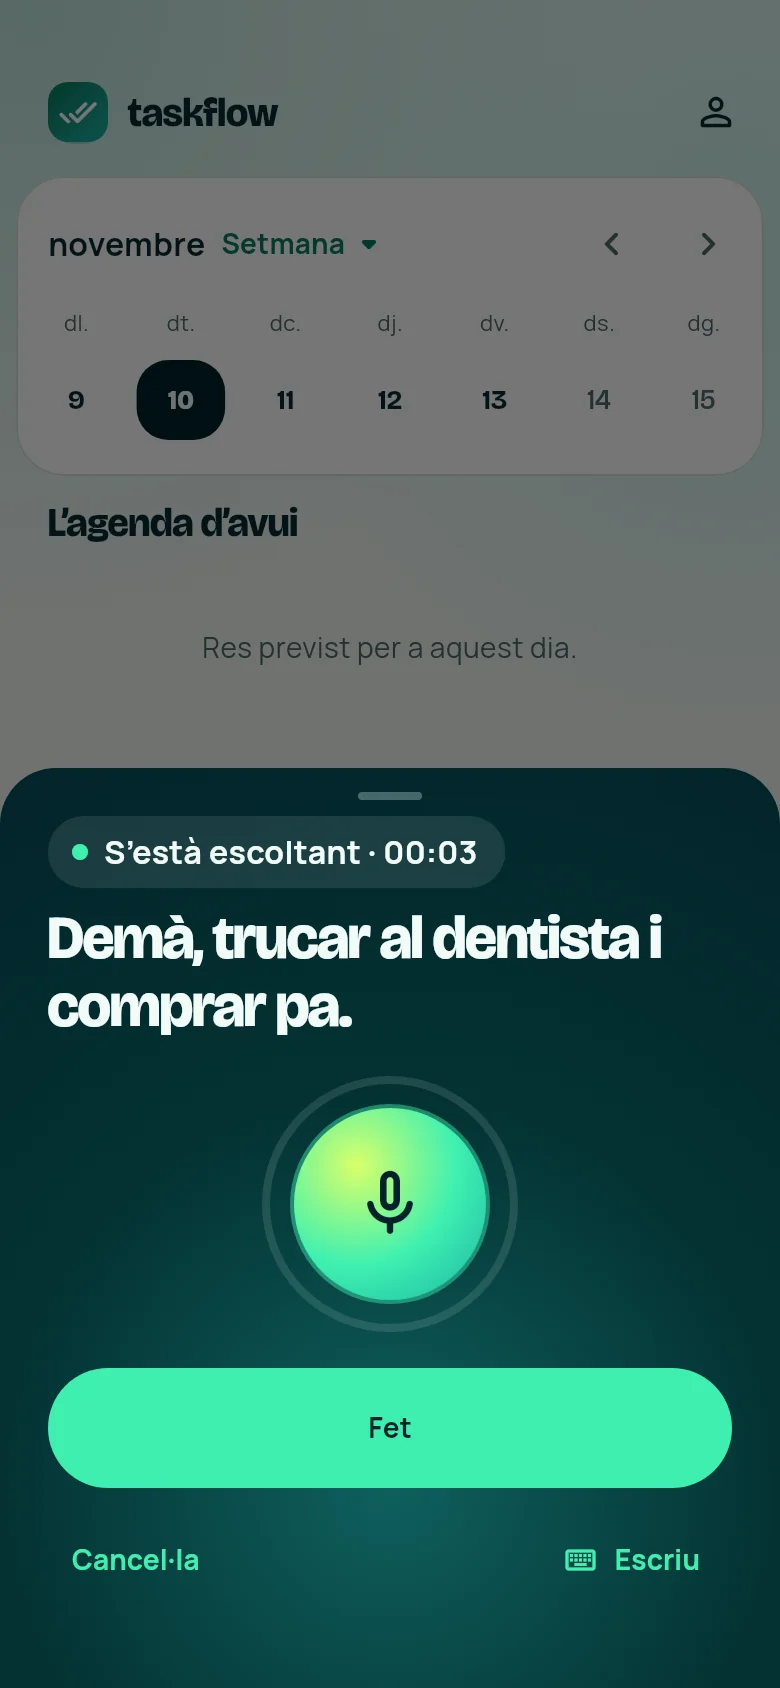
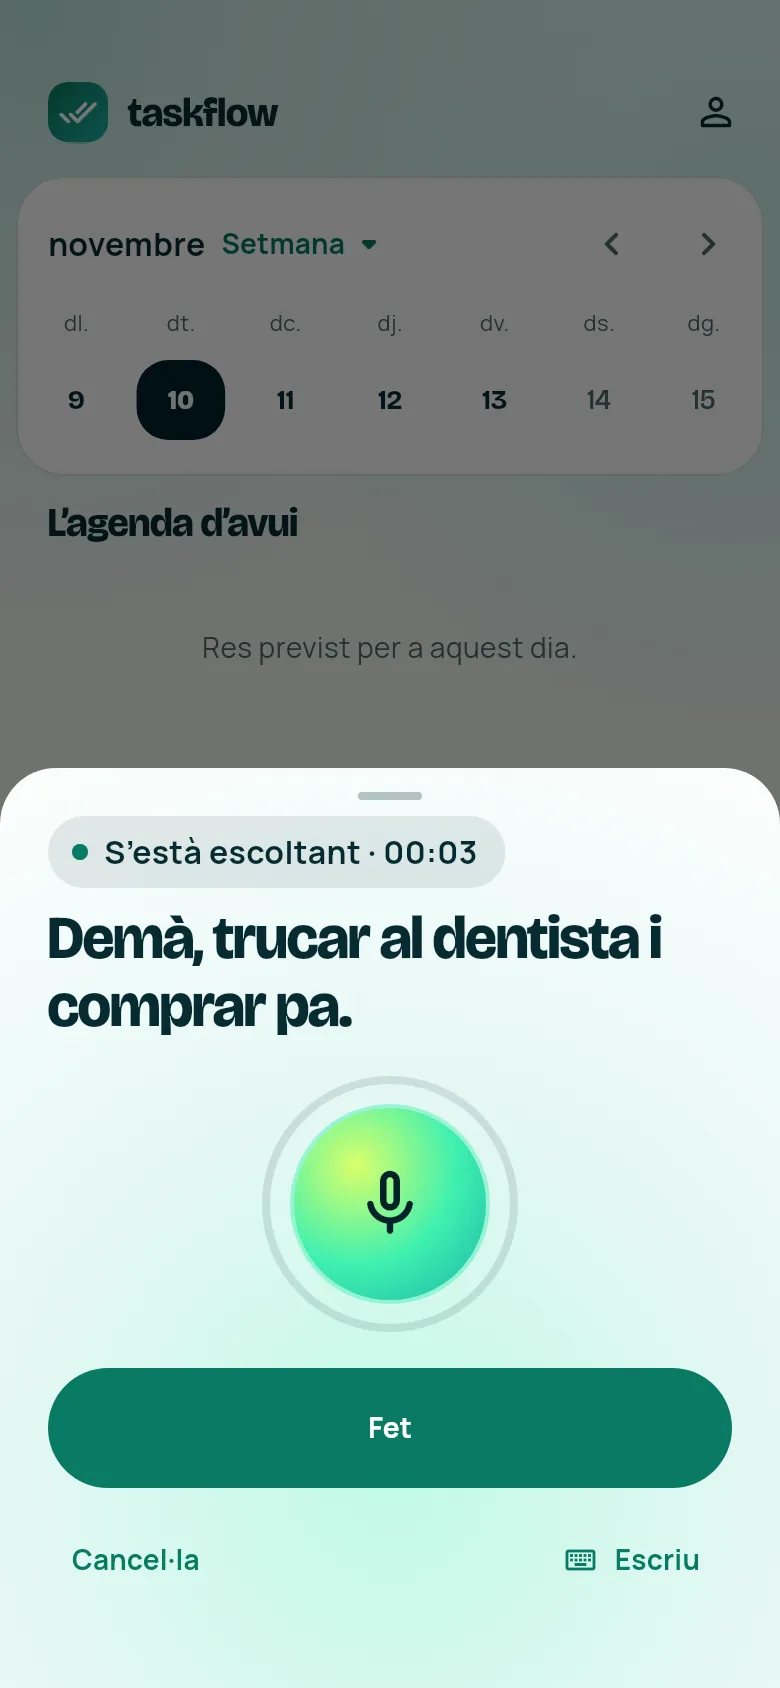
Start dark, keep What it does in the greens, and add a mouse glow (#48)
- The site opens dark unless the visitor chooses light (WD39); the
  choice is remembered, and the system setting no longer switches it.
- What it does: the cyan and lime cards become a deep green gradient
  and mint, and the site's lime and coral highlights move to mint.
- A soft green glow follows the mouse (fine pointer only, not with
  reduced motion, hidden in forced colours).
- How it works: the light listening screens from the app's new
  theme-aware listening sheet (TaskFlow #61).
- Tests: one shared fixture stores a light choice for light-scheme
  tests; the system-appearance test now checks the dark start.

Claude-Session: https://claude.ai/code/session_013H8x9K6wRvFoUgdGfRbaDV

diff --git a/src/styles/family.css b/src/styles/family.css
@@ -19,6 +19,10 @@
     --h2-track: -0.045em;
     --accent-style: normal;
     --accent-weight: 750;
+    /* The lime and the coral read as another brand beside the greens: both move into the
+       palette's mint, so every highlight stays in the GarBar-family green. */
+    --sun: #a9f5c8;
+    --pink: var(--tint);
   }
   .nv-accent {
     letter-spacing: inherit;
@@ -227,6 +231,59 @@
   }
   .nv-tape .nv-marquee-track {
     animation-duration: 44s;
+  }
+
+  /* ---------- What it does: the chapters in the site's greens ---------- */
+  .nv-c-voice {
+    background: linear-gradient(140deg, var(--accent), color-mix(in srgb, var(--accent) 55%, var(--accent-2)));
+    color: #ffffff;
+  }
+  .nv-c-voice .nv-num {
+    color: #ffffff;
+  }
+  .nv-c-voice p {
+    color: color-mix(in srgb, #ffffff 90%, var(--accent));
+  }
+  .nv-c-voice .nv-split li {
+    color: var(--night);
+  }
+  .nv-c-calendar {
+    background: var(--mint);
+    color: var(--ink);
+  }
+  .nv-c-calendar .nv-num {
+    color: var(--num);
+  }
+  .nv-c-calendar p {
+    color: var(--muted);
+  }
+  .nv-pro {
+    background: linear-gradient(95deg, var(--hot), var(--tint));
+  }
+
+  /* ---------- The glow that follows the mouse ---------- */
+  .cursor-glow {
+    position: fixed;
+    inset: 0;
+    z-index: 1;
+    pointer-events: none;
+    opacity: 0;
+    transition: opacity 0.6s var(--ease);
+    background: radial-gradient(
+      520px circle at var(--glow-x, 50%) var(--glow-y, 50%),
+      color-mix(in srgb, var(--hot) 14%, transparent),
+      transparent 70%
+    );
+  }
+  .cursor-glow.is-on {
+    opacity: 1;
+  }
+  &[data-theme="dark"] .cursor-glow {
+    background: radial-gradient(
+      560px circle at var(--glow-x, 50%) var(--glow-y, 50%),
+      color-mix(in srgb, var(--hot) 16%, transparent),
+      transparent 70%
+    );
   }
 
   /* ---------- 01 How it works: one phone, four steps ---------- */
@@ -942,6 +999,9 @@
     }
   }
   @media (forced-colors: active) {
+    .cursor-glow {
+      display: none;
+    }
     .nv-sibling-copy strong {
       background: none;
       -webkit-text-fill-color: currentColor;

diff --git a/tests/website.spec.ts b/tests/website.spec.ts
@@ -1,6 +1,6 @@
-import { test, expect } from "@playwright/test";
+import { test, expect } from "./support/test";
 import AxeBuilder from "@axe-core/playwright";
-import type { Page } from "@playwright/test";
+import type { Page } from "./support/test";
 
 // The theme control: the header's icon switch on desktop, the menu's Appearance row on phones.
 async function chooseTheme(page: Page, isMobile: boolean, theme: "light" | "dark") {
@@ -158,17 +158,27 @@ test("light and dark layouts pass accessibility checks and fit narrow screens", 
   }
 });
 
-test("system appearance is followed until a choice is made", async ({
-  page,
+test("the site starts dark whatever the system says, and a light choice is kept", async ({
+  browser,
+  baseURL,
   isMobile,
 }) => {
-  await page.emulateMedia({ colorScheme: "dark" });
+  // A fresh context, without the shared fixture's stored light choice (WD39).
+  const context = await browser.newContext({
+    baseURL,
+    colorScheme: "light",
+    isMobile,
+    viewport: isMobile ? { width: 390, height: 844 } : { width: 1440, height: 1000 },
+  });
+  const page = await context.newPage();
   await page.goto("/");
   await expect(page.locator("html")).toHaveAttribute("data-theme", "dark");
   await chooseTheme(page, isMobile, "light");
-  await page.emulateMedia({ colorScheme: "light" });
-  await page.emulateMedia({ colorScheme: "dark" });
   await expect(page.locator("html")).toHaveAttribute("data-theme", "light");
+  await page.emulateMedia({ colorScheme: "dark" });
+  await page.reload();
+  await expect(page.locator("html")).toHaveAttribute("data-theme", "light");
+  await context.close();
 });
 
 test("the marketing content and FAQ remain usable without JavaScript", async ({

diff --git a/src/components/CursorGlow.tsx b/src/components/CursorGlow.tsx
@@ -1,0 +1,41 @@
+"use client";
+
+import { useEffect, useRef } from "react";
+
+// A soft green glow that follows the mouse across the page, as on garbar.tech. Only for a
+// fine pointer that hovers (not touch), and left out under prefers-reduced-motion.
+// Decoration only: hidden from assistive technology and from the mouse.
+export default function CursorGlow() {
+  const glow = useRef<HTMLDivElement>(null);
+  useEffect(() => {
+    const element = glow.current;
+    if (!element) return;
+    const fine = window.matchMedia("(hover: hover) and (pointer: fine)");
+    const still = window.matchMedia("(prefers-reduced-motion: reduce)");
+    if (!fine.matches || still.matches) return;
+    let frame = 0;
+    let x = 0;
+    let y = 0;
+    const paint = () => {
+      frame = 0;
+      element.style.setProperty("--glow-x", `${x}px`);
+      element.style.setProperty("--glow-y", `${y}px`);
+    };
+    const move = (event: PointerEvent) => {
+      if (event.pointerType !== "mouse") return;
+      x = event.clientX;
+      y = event.clientY;
+      element.classList.add("is-on");
+      if (!frame) frame = requestAnimationFrame(paint);
+    };
+    const leave = () => element.classList.remove("is-on");
+    window.addEventListener("pointermove", move, { passive: true });
+    document.documentElement.addEventListener("pointerleave", leave);
+    return () => {
+      cancelAnimationFrame(frame);
+      window.removeEventListener("pointermove", move);
+      document.documentElement.removeEventListener("pointerleave", leave);
+    };
+  }, []);
+  return <div ref={glow} className="cursor-glow" aria-hidden="true" />;
+}

diff --git a/src/app/layout.tsx b/src/app/layout.tsx
@@ -3,6 +3,7 @@ import localFont from "next/font/local";
 import type { ReactNode } from "react";
 import Header from "../components/Header";
 import Footer from "../components/Footer";
+import CursorGlow from "../components/CursorGlow";
 import Motion from "../components/Motion";
 import SkipLink from "../components/SkipLink";
 import { ThemeProvider } from "../components/ThemeProvider";
@@ -53,7 +54,7 @@ export const viewport: Viewport = {
   colorScheme: "light dark",
 };
 // Before first paint: the theme, and the page's language from its path.
-const themeInit = `(function(){var t;try{t=localStorage.getItem('taskflow-theme')}catch(e){}var dark=t==='dark'||(t!=='light'&&matchMedia('(prefers-color-scheme: dark)').matches);document.documentElement.dataset.theme=dark?'dark':'light';var l=location.pathname.split('/')[1];document.documentElement.lang=l==='es'||l==='ca'?l:'en';})();`;
+const themeInit = `(function(){var t;try{t=localStorage.getItem('taskflow-theme')}catch(e){}var dark=t!=='light';document.documentElement.dataset.theme=dark?'dark':'light';var l=location.pathname.split('/')[1];document.documentElement.lang=l==='es'||l==='ca'?l:'en';})();`;
 
 export default function RootLayout({ children }: { children: ReactNode }) {
   return (
@@ -72,6 +73,7 @@ export default function RootLayout({ children }: { children: ReactNode }) {
           <Header />
           <main id="main-content">{children}</main>
           <Footer />
+          <CursorGlow />
         </ThemeProvider>
       </body>
     </html>

diff --git a/src/components/ThemeProvider.tsx b/src/components/ThemeProvider.tsx
@@ -33,34 +33,24 @@ export function ThemeProvider({ children }: { children: ReactNode }) {
       );
     setTheme(value);
   };
+  // The site starts dark (the owner's decision, 2026-11-10); light only when the visitor
+  // chooses it, and that choice is remembered.
   useEffect(() => {
-    const media = matchMedia("(prefers-color-scheme: dark)");
     const sync = () => {
       let stored;
       try {
         stored = localStorage.getItem("taskflow-theme");
       } catch {}
       chosen.current = stored === "light" || stored === "dark";
-      apply(
-        stored === "dark" || (!chosen.current && media.matches)
-          ? "dark"
-          : "light",
-      );
-    };
-    const followSystem = () => {
-      if (!chosen.current) apply(media.matches ? "dark" : "light");
+      apply(stored === "light" ? "light" : "dark");
     };
     const storageChanged = (event: StorageEvent) => {
       if (event.key === "taskflow-theme" || event.key === null) sync();
     };
     sync();
     setReady(true);
-    media.addEventListener("change", followSystem);
     window.addEventListener("storage", storageChanged);
-    return () => {
-      media.removeEventListener("change", followSystem);
-      window.removeEventListener("storage", storageChanged);
-    };
+    return () => window.removeEventListener("storage", storageChanged);
   }, []);
   const choose = (value: Theme) => {
     chosen.current = true;

diff --git a/tests/support/test.ts b/tests/support/test.ts
@@ -1,0 +1,18 @@
+// The site starts dark unless the visitor chooses light (WD39, 2026-11-10). A test run in
+// the light colour scheme stands for a visitor who chose light, so its page starts with that
+// choice stored, unless the test already stored one. Every spec imports test from here.
+import { test as base } from "@playwright/test";
+
+export * from "@playwright/test";
+
+export const test = base.extend({
+  page: async ({ page, colorScheme }, use) => {
+    if (colorScheme === "light")
+      await page.addInitScript(() => {
+        try {
+          if (!localStorage.getItem("taskflow-theme")) localStorage.setItem("taskflow-theme", "light");
+        } catch {}
+      });
+    await use(page);
+  },
+});

diff --git a/tests/ux-web-legal.spec.ts b/tests/ux-web-legal.spec.ts
@@ -6,7 +6,7 @@
 // document, readable text, plain labels, link previews), WP31 (privacy and terms say what
 // the app and the site do today) and WP32 (the delete page). Batch 5 adds WP47 (suggested
 // tasks and limits, not drafts, allowances or transcripts). See tests/support/ux-web.ts.
-import { test as plain, type Page } from "@playwright/test";
+import { test as plain, type Page } from "./support/test";
 import { readdirSync, readFileSync } from "node:fs";
 import { registerHooks } from "node:module";
 import path from "node:path";

diff --git a/tests/ux-web-legal-meetings.spec.ts b/tests/ux-web-legal-meetings.spec.ts
@@ -6,7 +6,7 @@
 // The release notes repeat the same rules. The version is 2026-11-06, the publication day: WEB-213's and
 // WEB-109's tests in tests/ux-web-legal.spec.ts prove it, and check.py runs `npm run legal:check`.
 // Its own file so it can't collide with WP271's block at the end of ux-web-legal.spec.ts.
-import { test as plain, type Page } from "@playwright/test";
+import { test as plain, type Page } from "./support/test";
 import { readdirSync, readFileSync } from "node:fs";
 import path from "node:path";
 import {

diff --git a/tests/support/ux-web.ts b/tests/support/ux-web.ts
@@ -3,7 +3,7 @@
 // Every test gets the guard below automatically: /api/voice/* is answered by the renders'
 // VoiceStub, in the shapes the site's server returns, and any request to another origin
 // is blocked, so no test ever reaches the real voice API or an outside service.
-import { test as base, expect, type Page } from "@playwright/test";
+import { test as base, expect, type Page } from "./test";
 import AxeBuilder from "@axe-core/playwright";
 import path from "node:path";
 import { fileURLToPath } from "node:url";

diff --git a/tests/ux-web-completion.spec.ts b/tests/ux-web-completion.spec.ts
@@ -1,6 +1,6 @@
 // WP52: independent, observable completion acceptance. All network/AI calls are stubbed
 // by ux-web's automatic VoiceStub fixture; no backend or browser storage is modified.
-import type { Locator, Page, TestInfo } from "@playwright/test";
+import type { Locator, Page, TestInfo } from "./support/test";
 import { appendFileSync, mkdirSync, readdirSync, readFileSync, statSync, writeFileSync } from "node:fs";
 import path from "node:path";
 import { ca } from "../src/content/site/ca";

diff --git a/tests/ux-web-global.spec.ts b/tests/ux-web-global.spec.ts
@@ -9,7 +9,7 @@
 // round 2's WP40 (the phone header stays one row at 200% text).
 // See tests/support/ux-web.ts.
 import AxeBuilder from "@axe-core/playwright";
-import { test as plain, type APIRequestContext, type Locator, type Page } from "@playwright/test";
+import { test as plain, type APIRequestContext, type Locator, type Page } from "./support/test";
 import { readFileSync } from "node:fs";
 import path from "node:path";
 import {

diff --git a/tests/ux-web-frame.spec.ts b/tests/ux-web-frame.spec.ts
@@ -4,7 +4,7 @@
 // language). layout.tsx and Footer.tsx hold the other session's uncommitted work, so this file
 // stays uncommitted with them. Round 2's WP38 (the 404 preloads the layout's font) is held
 // with WP22, so its tests are here too. See tests/support/ux-web.ts.
-import type { APIRequestContext } from "@playwright/test";
+import type { APIRequestContext } from "./support/test";
 import {
   axeViolations,
   expect,
